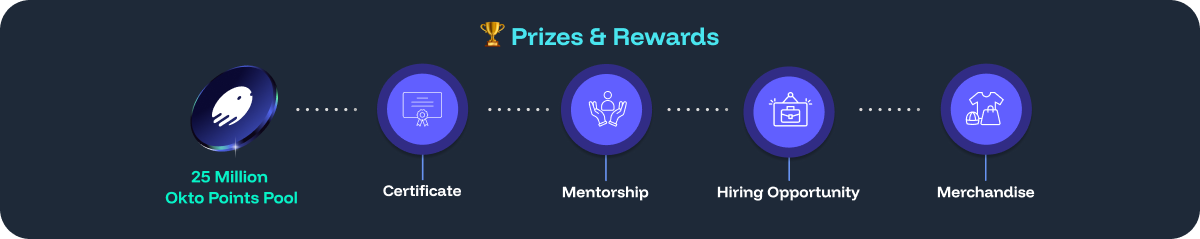
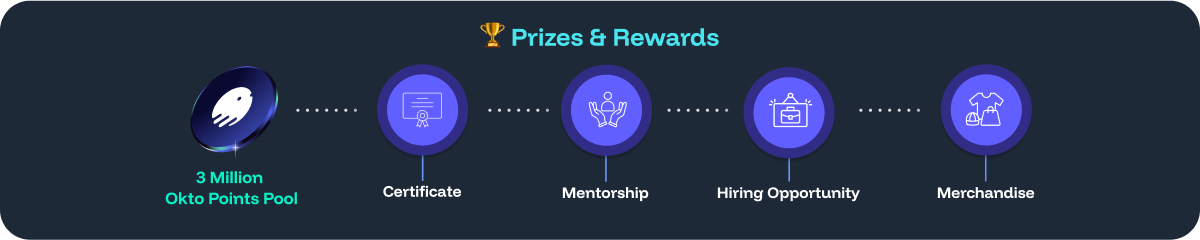
updated prizes image

diff --git a/app/summer-of-abstraction/page.tsx b/app/summer-of-abstraction/page.tsx
@@ -753,7 +753,7 @@ export default function Page() {
             <h2 className="text-2xl font-bold mb-6 dark:text-white">Prizes and Rewards</h2>
             
             {/* Banner placeholder - you can replace this with your actual banner */}
-            {/* <div className="w-full mb-10 rounded-lg overflow-hidden shadow-lg">
+            <div className="w-full mb-10 rounded-lg overflow-hidden shadow-lg">
             <Image 
               src="/images/prizes.png" 
               alt="Prizes and Rewards Banner"
@@ -762,7 +762,7 @@ export default function Page() {
               className="w-full object-cover"
               priority
             />
-          </div> */}
+          </div>
             
             <div className="bg-white dark:bg-gray-800 p-6 rounded-lg shadow-sm dark:shadow-gray-900 border border-gray-300 dark:border-gray-700">
               <ul className="space-y-3 dark:text-gray-300">
